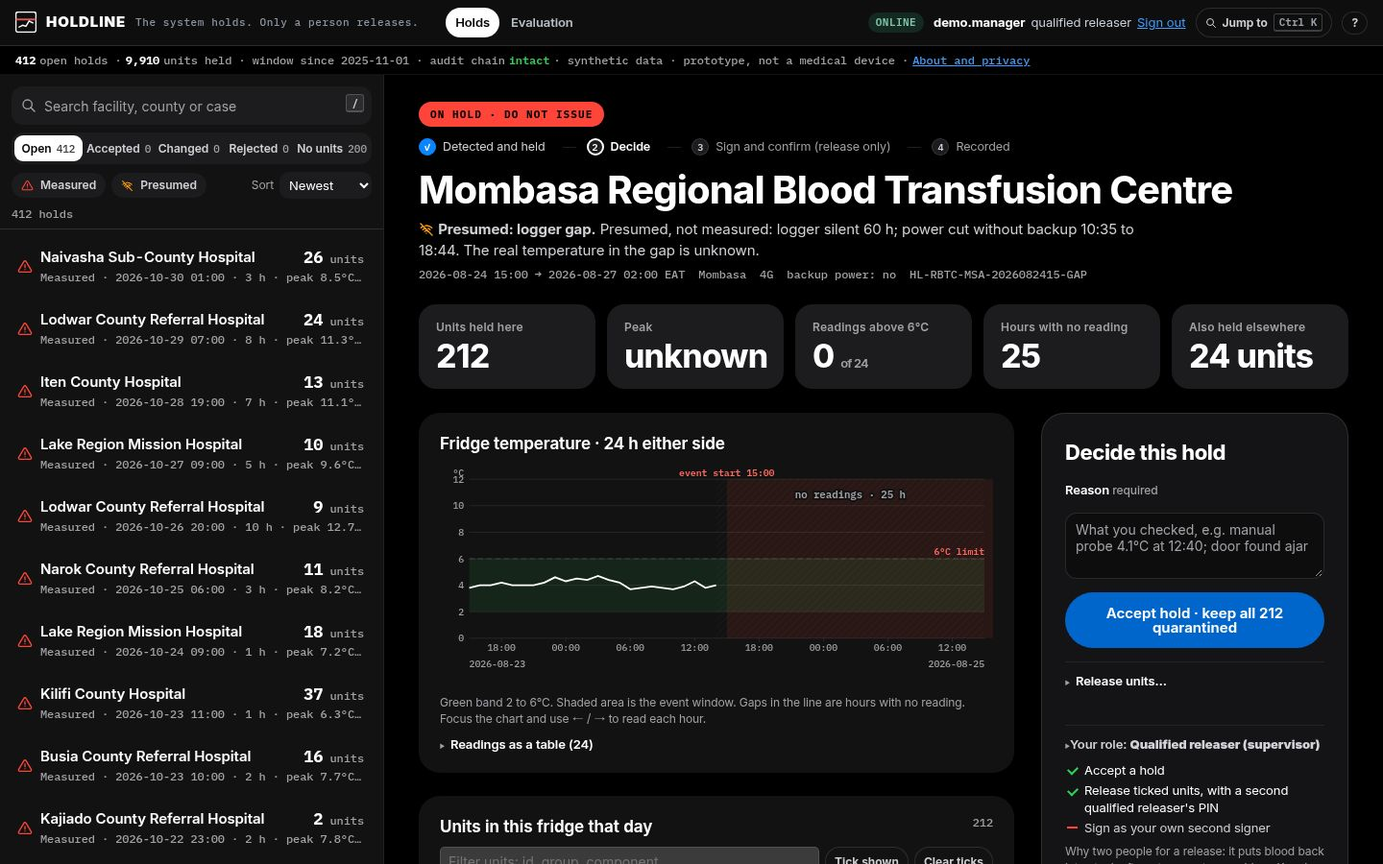
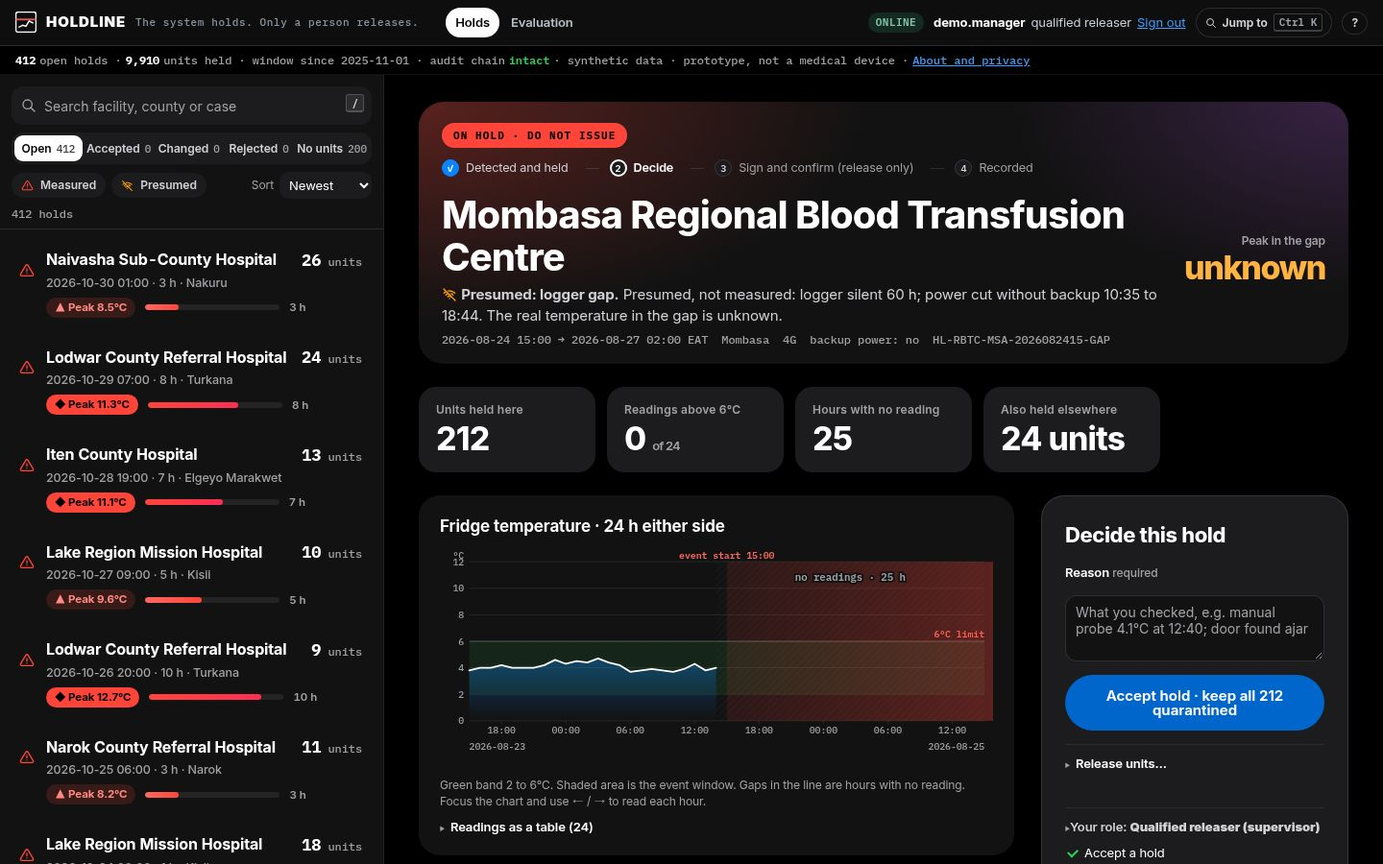
Pass 2: richer queue rows (severity chip, duration bar), case hero with peak numeral and status glow, pill tags and sticky table header, chart gradient fill, excursion glow and solid threshold; blur only on top bar and phone bar. Extras: CSV export of the open queue, printable case report, shift han

diff --git a/holdline/static/app.js b/holdline/static/app.js
@@ -84,7 +84,7 @@ $("#login").onsubmit = async ev => {
   ev.preventDefault();
   const r = await api("/api/login", {method: "POST", headers: {"Content-Type": "application/json"}, body: JSON.stringify({user: $("#luser").value, pin: $("#lpin").value})});
   if (r.cached || !r.ok) { $("#lmsg").textContent = r.cached ? "Offline: sign-in needs the server once." : r.data.error; return; }
-  me = r.data; localStorage.setItem("hl.me", JSON.stringify(me)); $("#lpin").value = ""; $("#signin").close(); paintWho();
+  me = r.data; localStorage.setItem("hl.me", JSON.stringify(me)); $("#lpin").value = ""; $("#signin").close(); paintWho(); handover();
   if (state.data) renderCase(state.data);
 };
 document.addEventListener("click", ev => {
@@ -144,7 +144,8 @@ function paintList() {
      <span class="g ${ex ? "ex" : "un"}">${icon(ex ? "ex" : "gap")}</span>
      <span class="f">${esc(c.facility_name || c.facility_id)}</span>
      <span class="u"><b>${fmt(c.n)}</b> units</span>
-     <span class="m">${ex ? "Measured" : "Presumed"} · ${esc(ts(c.start))} · ${hours(c.start, c.end)} h${ex && c.peak != null ? ` · peak ${esc(c.peak)}°C` : ""}${c.facility_county ? " · " + esc(c.facility_county) : ""}</span></div>`;
+     <span class="m">${esc(ts(c.start))} · ${hours(c.start, c.end)} h${c.facility_county ? " · " + esc(c.facility_county) : ""}</span>
+     ${sevRow(c)}</div>`;
   }).join("");
   if (state.hi >= 0) el.setAttribute("aria-activedescendant", "r" + state.hi); else el.removeAttribute("aria-activedescendant");
 }
@@ -204,6 +205,13 @@ window.addEventListener("hashchange", route);
 narrow.addEventListener("change", route);
 
 // First view: what needs attention, before any case is picked.
+// Queue row severity: a word, a shape and a colour, plus a duration bar (0 to 12 h). Not a sparkline: the queue
+// does not carry readings, and fetching 412 series to draw them would cost more than it tells.
+function sevRow(c) {
+  const ex = c.kind === "EXCURSION", pk = Number(c.peak), h = Math.max(1, hours(c.start, c.end));
+  const k = !ex ? ["gap", "Logger silent"] : pk >= 10 ? ["hot", `Peak ${esc(c.peak)}°C`] : ["ex", `Peak ${esc(c.peak)}°C`];
+  return `<span class="sev"><span class="schip ${k[0]}">${k[0] === "gap" ? "◌" : k[0] === "hot" ? "◆" : "▲"} ${k[1]}</span><span class="dbar ${k[0]}" aria-hidden="true"><i style="width:${Math.min(100, h / 12 * 100).toFixed(0)}%"></i></span><span class="dlab">${h} h</span></span>`;
+}
 function paintOverview() {
   // Phone: the overview is the first view, so start the shared scroll at the top (once per arrival on the queue).
   if (layout() !== "split" && state.view === "queue" && !state.ovTop) { state.ovTop = true; requestAnimationFrame(() => { const m = $("main"); if (m) m.scrollTop = 0; }); }
@@ -212,7 +220,7 @@ function paintOverview() {
   // Seam: an overview module (overview.js) may define window.HoldlineOverview.render(mount, ctx) to own the landing view.
   // ctx = {rows, summary, open(id)}; rows are the open cases as listed in the queue. It must not decide anything.
   if (window.HoldlineOverview && typeof window.HoldlineOverview.render === "function") {
-    el.innerHTML = `<div id="overview-mount" class="overview-mount"></div>`;
+    el.innerHTML = `${state.handover || ""}<div id="overview-mount" class="overview-mount"></div>`;
     try { window.HoldlineOverview.render($("#overview-mount"), {rows, summary: s, open: go}); return; } catch (e) { console.error(e); }
   }
   if (!rows.length) { el.innerHTML = `<div class="empty">Pick a hold from the queue.</div>`; return; }
@@ -291,13 +299,12 @@ function renderCase(d) {
   <div class="sheet" data-case="${esc(c.id)}">
    <header class="chead">${backBtn}${status}
     <div id="steps-mount">${steps(d)}</div>
-    <h1>${esc(f.name || c.facility_id)}</h1>
+    <div class="hero"><h1>${esc(f.name || c.facility_id)}</h1><div class="hpeak ${c.kind === "EXCURSION" ? "ex" : "un"}"><span class="hpl">${c.kind === "EXCURSION" ? "Peak" : "Peak in the gap"}</span><span class="hpv">${c.kind === "EXCURSION" && c.peak != null ? esc(c.peak) + "<small>°C</small>" : "unknown"}</span></div></div>
     <p class="why"><span class="g ${cls}">${glyph}</span> <b>${label}.</b> ${esc(c.reason)}.</p>
     <p class="meta"><span>${esc(ts(c.start))} → ${esc(ts(c.end))} EAT</span><span>${esc(f.county || "")}</span><span>${esc(f.connectivity || "")}</span><span>backup power: ${f.has_blood_fridge_backup_power === "True" ? "yes" : "no"}</span><span class="mono">${esc(c.id)}</span></p>
    </header>
    <dl class="facts" aria-label="Evidence summary">
     <div><dt>${open ? "Units held here" : "Units in this case"}</dt><dd>${fmt(d.units.length)}</dd></div>
-    <div><dt>Peak</dt><dd>${c.kind === "EXCURSION" && c.peak != null ? esc(c.peak) + "°C" : "unknown"}</dd></div>
     <div><dt>Readings above 6°C</dt><dd>${e.above} <small>of ${e.n}</small></dd></div>
     <div><dt>Hours with no reading</dt><dd class="${e.missing ? "unw" : ""}">${e.missing}</dd></div>
     <div><dt>Also held elsewhere</dt><dd class="${alsoUnits.length ? "exw" : ""}">${alsoUnits.length ? `${alsoUnits.length} unit${alsoUnits.length > 1 ? "s" : ""}` : "none"}</dd></div>
@@ -574,6 +581,39 @@ function fuzzy(q, text) {  // subsequence match; contiguous and word-start hits 
   return i === q.length ? sc : 0;
 }
 const cmd = {items: [], hi: 0};
+// Extras. None of these can decide anything or change a release rule.
+// CSV of the open queue as the browser has it (no server call): one row per hold, quoted, UTF-8 with BOM for spreadsheets.
+function exportCSV() {
+  const rows = (state.rows || []).filter(c => c.status === "OPEN" || state.status === "OPEN");
+  const q = v => `"${String(v ?? "").replace(/"/g, '""')}"`;
+  const head = ["case_id", "facility", "county", "kind", "start_eat", "end_eat", "peak_c", "units_on_hold"];
+  const body = rows.map(c => [c.id, c.facility_name || c.facility_id, c.facility_county || "", c.kind === "EXCURSION" ? "measured excursion" : "presumed (logger gap)", ts(c.start), ts(c.end), c.kind === "EXCURSION" ? c.peak : "", c.n].map(q).join(","));
+  const blob = new Blob(["\ufeff" + [head.join(","), ...body].join("\r\n")], {type: "text/csv;charset=utf-8"});
+  const a = document.createElement("a"); a.href = URL.createObjectURL(blob); a.download = `holdline-open-queue-${new Date().toISOString().slice(0, 10)}.csv`;
+  document.body.appendChild(a); a.click(); a.remove(); setTimeout(() => URL.revokeObjectURL(a.href), 1000);
+  toast(`Exported ${fmt(rows.length)} open holds as CSV. Synthetic data.`);
+}
+// Light theme = the base styles with pure white surfaces; dark = theme.css. Choice kept in this browser only.
+function toggleTheme() {
+  const light = !document.documentElement.classList.contains("light");
+  document.documentElement.classList.toggle("light", light); $("#theme-css").disabled = light;
+  localStorage.setItem("hl.theme", light ? "light" : "dark");
+}
+if (localStorage.getItem("hl.theme") === "light") { document.documentElement.classList.add("light"); const t = document.getElementById("theme-css"); if (t) t.disabled = true; }
+// Shift handover: decisions recorded since the start of this shift (07:00 or 19:00 local), from the audit log.
+// Shown once per sign-in on the landing view. Read-only.
+async function handover() {
+  if (!me) return;
+  const r = await api("/api/audit"); if (!r.ok || r.cached || !Array.isArray(r.data)) return;
+  const now = new Date(), start = new Date(now); start.setHours(now.getHours() >= 19 ? 19 : now.getHours() >= 7 ? 7 : -5, 0, 0, 0);
+  const dec = r.data.filter(a => /^DECISION_/.test(a.action) && new Date(a.ts) >= start);
+  const kinds = {DECISION_ACCEPT: "kept on hold", DECISION_CHANGE: "partly released", DECISION_REJECT: "released"};
+  const hh = String(start.getHours()).padStart(2, "0") + ":00";
+  const open = state.rows ? state.rows.length : null;
+  const lines = dec.slice(0, 4).map(a => `<li><b>${esc(a.actor)}</b> ${kinds[a.action] || esc(a.action)} · <a href="#/case/${encodeURIComponent(a.case_id)}">${esc(a.case_id)}</a> · ${new Date(a.ts).toTimeString().slice(0, 5)}</li>`).join("");
+  state.handover = `<section class="handover" aria-label="Shift handover"><h2>Since ${hh}: ${dec.length ? `${fmt(dec.length)} decision${dec.length === 1 ? "" : "s"} recorded` : "no decisions recorded yet"}${open != null && state.status === "OPEN" ? ` · ${fmt(open)} holds still open` : ""}</h2>${lines ? `<ul>${lines}</ul>` : ""}<p class="hint">From the audit log. New holds are not counted here because the synthetic holds carry dataset dates, not today's.</p></section>`;
+  if (state.view === "queue") paintOverview();
+}
 function cmdActions() {
   const a = [
     {k: "Go to holds", run: () => { location.hash = "#/"; }},
@@ -583,6 +623,9 @@ function cmdActions() {
     {k: "Show every hold in this tab", run: () => { state.q = ""; $("#q").value = ""; setKinds([]); }},
     me ? {k: "Sign out", run: () => $("#out") && $("#out").click()} : {k: "Sign in", run: openSignin},
     {k: "Keyboard shortcuts", run: () => $("#help").showModal()},
+    {k: "Export the open queue as CSV", run: exportCSV},
+    ...(state.view === "case" && state.data ? [{k: "Print this case for the audit file", run: () => window.print()}] : []),
+    {k: document.documentElement.classList.contains("light") ? "Switch to dark theme" : "Switch to light theme", run: toggleTheme},
   ];
   return a.map(x => ({...x, group: "Actions"}));
 }
@@ -624,7 +667,7 @@ function wireCmd() {
     const r = await api("/api/case/" + encodeURIComponent(decodeURIComponent(m[1])), {headers: auth()});
     if (r.data && r.data.case) { state.status = r.data.case.status; paintTabs(); }
   }
-  await loadList(); route();
+  await loadList(); route(); handover();
 })();
 setInterval(() => { if (Q().some(d => !d._error)) flush(); }, 10000);
 window.HOLDLINE = {open: id => go(id), current: () => state.data && state.data.case.id, state};  // used by the benchmark harness

diff --git a/holdline/static/theme.css b/holdline/static/theme.css
@@ -111,7 +111,7 @@ td input[type=checkbox]{accent-color:#0A84FF}
 .st.ON_HOLD{background:#fff;color:#000}
 
 /* decision panel: glass with a vivid header glow */
-.decide{background:var(--glass);-webkit-backdrop-filter:saturate(180%) blur(24px);backdrop-filter:saturate(180%) blur(24px);border:1px solid var(--rule);border-radius:24px;padding:24px;gap:14px;overflow:hidden;position:sticky}
+.decide{background:#1C1C1E;border:1px solid var(--rule);border-radius:24px;padding:24px;gap:14px;overflow:hidden;position:sticky}
 .decide::before{content:"";position:absolute;inset:-40% -20% auto -20%;height:180px;background:radial-gradient(50% 60% at 30% 50%,rgba(10,132,255,.30),transparent 70%),radial-gradient(40% 60% at 75% 40%,rgba(191,90,242,.26),transparent 70%);pointer-events:none;z-index:0}
 .decide>*{position:relative;z-index:1}
 .decide h2{font-size:22px;font-weight:750;letter-spacing:-.018em}
@@ -126,11 +126,11 @@ td input[type=checkbox]{accent-color:#0A84FF}
 .slide input::-webkit-slider-thumb{background-color:#D70015}
 .slide.done{background:#D70015}
 .sms{background:var(--surface-3)}
-.toast{background:rgba(44,44,46,.92);-webkit-backdrop-filter:blur(20px);backdrop-filter:blur(20px);border:1px solid var(--rule);border-radius:16px}
+.toast{background:#2C2C2E;border:1px solid var(--rule);border-radius:16px}
 .upd-banner{background:var(--surface-3)}
 .upd-banner button{background:#fff;color:#000}
 dialog{background:var(--surface-2);color:#fff;border:1px solid var(--rule);border-radius:22px}
-dialog::backdrop{background:rgba(0,0,0,.6);-webkit-backdrop-filter:blur(6px);backdrop-filter:blur(6px)}
+dialog::backdrop{background:rgba(0,0,0,.7)}
 .evaltable{background:var(--surface);border-color:var(--rule)}
 
 /* landing: Revolut-style vivid cards and chunky numbers */
@@ -158,11 +158,12 @@ dialog::backdrop{background:rgba(0,0,0,.6);-webkit-backdrop-filter:blur(6px);bac
 
 /* spring motion; all off under reduced motion */
 @media (prefers-reduced-motion:no-preference){
-  .ocard,.facts div,.mfridge{animation:rise .7s var(--spring) both}
-  .ocard:nth-child(2),.facts div:nth-child(2){animation-delay:.04s}
-  .ocard:nth-child(3),.facts div:nth-child(3){animation-delay:.08s}
-  .ocard:nth-child(4),.facts div:nth-child(4){animation-delay:.12s}
-  .facts div:nth-child(5){animation-delay:.16s}
+  .ocard{animation:rise .7s var(--spring) both}
+  .ocard:nth-child(2){animation-delay:.04s}
+  .ocard:nth-child(3){animation-delay:.08s}
+  .ocard:nth-child(4){animation-delay:.12s}
+  .list .row,.facts div{transition:transform .45s var(--spring),background .15s}
+  .list .row:hover{transform:translateX(2px)}
   .ocard{transition:transform .5s var(--spring)}
   .ocard:hover{transform:translateY(-4px) scale(1.01)}
 }
@@ -179,3 +180,49 @@ dialog::backdrop{background:rgba(0,0,0,.6);-webkit-backdrop-filter:blur(6px);bac
   html body .sheet{padding:16px 16px 96px}
 }
 .xwarn,.warnchip{background:var(--unverified-bg)!important;color:#FFD08A!important;border-color:var(--unverified)!important}.also{color:#FFB340;background:rgba(255,159,10,.14)}
+
+/* ---- pass 2: richer rows, hero, table, chart ---- */
+.list .row{grid-template-columns:18px minmax(0,1fr) auto;padding:14px 14px 14px 12px;gap:4px 10px}
+.list .row .f{font-size:16px;font-weight:700;letter-spacing:-.01em}
+.list .row .m{font-family:var(--sans);font-size:12.5px;color:var(--ink-3)}
+.sev{grid-column:2/4;display:flex;align-items:center;gap:10px;margin-top:4px}
+.schip{font:700 11.5px var(--sans);padding:3px 9px;border-radius:999px;white-space:nowrap}
+.schip.ex{color:#FF8A80;background:rgba(255,69,58,.16)}
+.schip.hot{color:#000;background:#FF453A}
+.schip.gap{color:#FFB340;background:rgba(255,159,10,.15)}
+.dbar{flex:1;height:6px;border-radius:3px;background:rgba(255,255,255,.08);overflow:hidden;max-width:140px}
+.dbar i{display:block;height:100%;border-radius:3px}
+.dbar.ex i{background:linear-gradient(90deg,#FF6961,#FF453A)}
+.dbar.hot i{background:linear-gradient(90deg,#FF453A,#FF2D55)}
+.dbar.gap i{background:repeating-linear-gradient(45deg,#FF9F0A 0 3px,rgba(255,159,10,.35) 3px 6px)}
+.dlab{font:600 11.5px var(--sans);color:var(--ink-3);font-variant-numeric:tabular-nums}
+.list .row.sel{background:linear-gradient(100deg,rgba(10,132,255,.38),rgba(94,92,230,.22) 60%,rgba(191,90,242,.12));box-shadow:inset 0 0 0 1px rgba(64,156,255,.55)}
+.list .row.sel .f{color:#fff}
+
+/* case hero: gradient status band and the peak as a big numeral */
+.chead{position:relative;padding:22px 24px 18px;border-radius:26px;overflow:hidden;background:#121212}
+.chead::before{content:"";position:absolute;inset:0;z-index:0;pointer-events:none;background:radial-gradient(80% 140% at 0% 0%,rgba(255,69,58,.30),transparent 60%),radial-gradient(60% 120% at 100% 0%,rgba(191,90,242,.22),transparent 60%)}
+.sheet:has(.kick.done) .chead::before{background:radial-gradient(80% 140% at 0% 0%,rgba(10,132,255,.30),transparent 60%),radial-gradient(60% 120% at 100% 0%,rgba(94,92,230,.22),transparent 60%)}
+.chead>*{position:relative;z-index:1}
+.hero{display:flex;align-items:flex-end;justify-content:space-between;gap:24px;flex-wrap:wrap}
+.hero h1{margin:14px 0 6px;flex:1 1 320px}
+.hpeak{display:grid;justify-items:end;line-height:1}
+.hpl{font:600 12px var(--sans);color:var(--ink-3);margin-bottom:4px}
+.hpv{font:800 64px/1 var(--sans);letter-spacing:-.04em;font-variant-numeric:tabular-nums}
+.hpv small{font-size:28px;font-weight:700;margin-left:2px}
+.hpeak.ex .hpv{color:#FF6961}
+.hpeak.un .hpv{color:#FFB340;font-size:34px}
+
+/* unit table: roomy rows, pill tags, sticky header */
+.unitsp .twrap{max-height:560px}
+.unitsp thead th{position:sticky;top:0;z-index:2;background:#1C1C1E}
+.unitsp td{padding:14px 14px}
+.st{border-radius:999px!important;padding:4px 10px!important;font:700 11px var(--sans)!important;letter-spacing:.02em}
+.st.ON_HOLD{background:#fff;color:#000}
+.st.RELEASED{background:rgba(48,209,88,.18);color:#30D158}
+.st.QUARANTINED{background:rgba(255,69,58,.16);color:#FF8A80}
+
+/* chart */
+:root{--chart-line:#FFFFFF;--chart-fill:#0A84FF}
+.chart .limline{stroke-dasharray:none;stroke-width:1.5}
+@media (max-width:760px){html body .hpv{font-size:44px}html body .hpv small{font-size:20px}html body .chead{padding:16px 16px 14px;border-radius:20px}}

diff --git a/holdline/static/chart.js b/holdline/static/chart.js
@@ -15,11 +15,16 @@ function chart(rs, start, end, kind) {
   const st = new Date(start).getTime(), t0 = Math.min(st - 24 * 36e5, ...tt), t1 = Math.max(st + 24 * 36e5, ...tt), vs = rs.map(r => r[1]).filter(v => v > -50 && v < 60);
   const lo = Math.min(0, ...vs), hi = Math.max(12, ...vs);
   const x = t => L + (t - t0) / Math.max(1, t1 - t0) * (W - L - R), y = v => H - B - (v - lo) / (hi - lo) * (H - T - B);
-  let d = "", prev = null, dots = "";
+  let d = "", prev = null, dots = "", area = "", segX0 = null, lastX = null;  // area: gradient fill under each unbroken run
+  const base = (H - B).toFixed(1), closeSeg = () => { if (segX0 != null) area += `L${lastX} ${base}L${segX0} ${base}Z`; };
   rs.forEach((r, i) => { const t = tt[i]; if (r[1] < -50 || r[1] > 60) return;
-    d += (prev && t - prev > 36e5 * 1.5 ? "M" : (d ? "L" : "M")) + x(t).toFixed(1) + " " + y(r[1]).toFixed(1);
+    const brk = !d || (prev && t - prev > 36e5 * 1.5), X = x(t).toFixed(1), Y = y(r[1]).toFixed(1);
+    if (brk) { closeSeg(); segX0 = X; area += `M${X} ${base}L${X} ${Y}`; } else area += `L${X} ${Y}`;
+    lastX = X;
+    d += (brk ? "M" : "L") + X + " " + Y;
     if (r[1] > 6) dots += `<path d="M${x(t).toFixed(1)} ${(y(r[1]) - 4).toFixed(1)}l4 7h-8z" fill="var(--excursion)"/>`;
     prev = t; });
+  closeSeg();
   let gaps = "";  // hatched columns where an hourly reading is missing
   const edges = [t0 - 36e5, ...tt, t1 + 36e5];  // include silence before the first and after the last reading
   for (let i = 1; i < edges.length; i++) if (edges[i] - edges[i - 1] > 36e5 * 1.5) {
@@ -35,12 +40,12 @@ function chart(rs, start, end, kind) {
   const pk = vs.length ? Math.max(...vs) : null;
   const sum = `${rs.length} of 49 hourly readings present from ${ts(rs[0][0])} to ${ts(rs[rs.length - 1][0])}. ${vs.filter(v => v > 6).length} above 6°C${pk != null ? `, highest ${pk}°C` : ""}. Event window ${ts(start)} to ${ts(end)}.`;
   return `<figure class="chart"><svg viewBox="0 0 ${W} ${H}" tabindex="0" role="img" aria-label="${esc(sum)}" id="chartsvg">
-   <defs><pattern id="hatch" width="6" height="6" patternUnits="userSpaceOnUse" patternTransform="rotate(45)"><line x1="0" y1="0" x2="0" y2="6" stroke="var(--unverified)" stroke-width="1.2" opacity=".45"/></pattern></defs>
+   <defs><linearGradient id="fillg" x1="0" y1="0" x2="0" y2="1"><stop offset="0" style="stop-color:var(--chart-fill, #0A84FF);stop-opacity:.35"/><stop offset="1" style="stop-color:var(--chart-fill, #0A84FF);stop-opacity:0"/></linearGradient><linearGradient id="exg" x1="0" y1="0" x2="1" y2="0"><stop offset="0" style="stop-color:var(--excursion);stop-opacity:0"/><stop offset=".5" style="stop-color:var(--excursion);stop-opacity:.28"/><stop offset="1" style="stop-color:var(--excursion);stop-opacity:0"/></linearGradient><pattern id="hatch" width="6" height="6" patternUnits="userSpaceOnUse" patternTransform="rotate(45)"><line x1="0" y1="0" x2="0" y2="6" stroke="var(--unverified)" stroke-width="1.2" opacity=".45"/></pattern></defs>
    ${grid}<rect x="${L}" y="${y(6)}" width="${W - L - R}" height="${y(2) - y(6)}" fill="var(--band-safe)"/>
-   <line x1="${L}" x2="${W - R}" y1="${y(6)}" y2="${y(6)}" stroke="var(--excursion)" stroke-width="1.5" stroke-dasharray="6 4"/>
+   <line x1="${L}" x2="${W - R}" y1="${y(6)}" y2="${y(6)}" stroke="var(--excursion)" stroke-width="1.5" stroke-dasharray="6 4" class="limline" shape-rendering="crispEdges"/>
    <text x="${W - R}" y="${y(6) - 5}" text-anchor="end" class="ax lim">6°C limit</text>
-   <rect x="${Math.min(sx, ex)}" y="${T}" width="${Math.max(2, Math.abs(ex - sx))}" height="${H - T - B}" fill="var(--excursion-bg)" opacity=".6"/>
-   ${gaps}<path d="${d}" fill="none" stroke="var(--ink)" stroke-width="2"/>${dots}
+   <rect x="${Math.min(sx, ex) - 14}" y="${T}" width="${Math.max(2, Math.abs(ex - sx)) + 28}" height="${H - T - B}" fill="url(#exg)" class="exglow"/><rect x="${Math.min(sx, ex)}" y="${T}" width="${Math.max(2, Math.abs(ex - sx))}" height="${H - T - B}" fill="var(--excursion-bg)" opacity=".6"/>
+   ${gaps}<path d="${area}" fill="url(#fillg)" class="area"/><path d="${d}" fill="none" stroke="var(--chart-line, var(--ink))" stroke-width="2" stroke-linejoin="round" stroke-linecap="round"/>${dots}
    <g id="cur" visibility="hidden"><line id="curl" y1="${T}" y2="${H - B}" stroke="var(--verified)" stroke-width="1.5"/><circle id="curc" r="4.5" fill="var(--verified)"/><text id="curt" class="ax curt" y="${T + 10}"></text></g>
    <text x="${L}" y="${H - 4}" class="ax">${esc(hm(t0).slice(0, 10))}</text><text x="${x(st)}" y="${T - 4}" text-anchor="middle" class="ax ev">event start ${esc(hm(st).slice(11))}</text><text x="${W - R}" y="${H - 4}" text-anchor="end" class="ax">${esc(hm(t1).slice(0, 10))}</text><text x="${L - 6}" y="${T - 4}" text-anchor="end" class="ax">°C</text></svg>
    <figcaption class="sr" id="chartsum">${esc(sum)}</figcaption><p class="curread" id="curread" aria-live="polite"></p></figure>`;

diff --git a/holdline/static/print.css b/holdline/static/print.css
@@ -1,0 +1,32 @@
+/* One-page case report for the audit file. Print from an open case (Ctrl/Cmd+P or the command menu).
+   Pure white paper, black text; colour is never the only signal (every state keeps its word). */
+@page{size:A4;margin:14mm}
+*{background:#FFFFFF!important;color:#000!important;box-shadow:none!important;text-shadow:none!important;animation:none!important;transition:none!important;-webkit-backdrop-filter:none!important;backdrop-filter:none!important}
+.bar,.queue,.decidebar,.toasts,#toasts,.backbtn,.skip,dialog,.roles,.slide,.steps,details.more,.chead::before,.decide::before,.upd-banner,.cmdbtn,.sev .dbar{display:none!important}
+html,body,main,.case{display:block!important;height:auto!important;overflow:visible!important;width:auto!important;position:static!important}
+.context{border-bottom:1px solid #000;font-size:9pt;white-space:normal}
+.context::after{content:" · printed report, synthetic data";}
+.sheet{display:block!important;padding:0!important;max-width:none}
+.chead{padding:0!important;border-radius:0}
+.hero h1,.chead h1{font-size:18pt!important;margin:6pt 0}
+.hpv{font-size:22pt!important}
+.kick{border:1.5px solid #000;border-radius:3px}
+.facts{display:grid!important;grid-template-columns:repeat(4,1fr);gap:0!important;border:1px solid #000;margin:8pt 0}
+.facts div{border-radius:0!important;border-left:1px solid #000;padding:4pt 6pt!important}
+.facts dd{font-size:13pt!important}
+.panel,.decide{border:1px solid #000!important;border-radius:0!important;padding:6pt!important;margin:6pt 0;position:static!important;break-inside:avoid}
+.decide form,.decide textarea,.decide button,.decide select,.decide input{display:none!important}
+.chart svg{max-height:60mm}
+.chart path[fill="url(#fillg)"],.chart .exglow{display:none}
+.chart path{stroke:#000!important}
+.twrap{max-height:none!important;overflow:visible!important;border:0!important}
+table{font-size:8pt}
+thead th{position:static!important;border-bottom:1px solid #000}
+td{padding:2pt 4pt!important;border-bottom:1px solid #999}
+.st{border:1px solid #000}
+a{text-decoration:none}
+:root,html{background:#FFFFFF!important;color-scheme:light}
+svg text{fill:#000!important}
+.chart figcaption,.chart .curread,.chart+p,.chartp>p,.chartp details,.ostats{display:none!important}
+.hpeak .hpv{color:#000!important}
+.sheet>*{margin-bottom:6pt}

diff --git a/holdline/static/sw.js b/holdline/static/sw.js
@@ -1,5 +1,5 @@
 // Cache the app shell so the page opens with no connection. Data comes from localStorage in app.js.
-const C = "holdline-v36", SHELL = ["/", "/index.html", "/app.js", "/app.css", "/theme.css", "/phone.css", "/chart.js", "/overview.js", "/tokens.css", "/fonts.css", "/fonts/Inter-latin-wght.woff2", "/404.html"];
+const C = "holdline-v40", SHELL = ["/", "/index.html", "/app.js", "/app.css", "/theme.css", "/print.css", "/phone.css", "/chart.js", "/overview.js", "/tokens.css", "/fonts.css", "/fonts/Inter-latin-wght.woff2", "/404.html"];
 // skipWaiting after the new shell is fully cached: an old controlled browser must not keep serving the previous app.js from its old cache.
 self.addEventListener("install", e => e.waitUntil(caches.open(C).then(c => c.addAll(SHELL.map(u => new Request(u, {cache: "reload"})))).then(() => self.skipWaiting())));
 // Drop stale caches, then claim open clients so the next navigation is served by this worker. No page reload is forced: the running tab keeps its in-memory app until the user reloads, and queued decisions live in localStorage, untouched by the worker swap.

diff --git a/holdline/static/index.html b/holdline/static/index.html
@@ -1,5 +1,5 @@
 <!doctype html><html lang="en"><head><meta charset="utf-8"><meta name="viewport" content="width=device-width,initial-scale=1,viewport-fit=cover">
-<title>HOLDLINE · cold chain hold queue</title><link rel="stylesheet" href="fonts.css"><link rel="stylesheet" href="tokens.css"><link rel="stylesheet" href="app.css"><link rel="stylesheet" href="theme.css">
+<title>HOLDLINE · cold chain hold queue</title><link rel="stylesheet" href="fonts.css"><link rel="stylesheet" href="tokens.css"><link rel="stylesheet" href="app.css"><link rel="stylesheet" href="theme.css" id="theme-css"><link rel="stylesheet" href="print.css" media="print">
 <link rel="stylesheet" href="phone.css"></head>
 <body class="layout-split">
 <!-- Icons: Tabler Icons, MIT, see LICENSE-tabler.txt -->

diff --git a/holdline/static/app.css b/holdline/static/app.css
@@ -331,3 +331,11 @@ td.c-unit{white-space:normal;min-width:200px}
 .mtable{margin:8px 0 22px}
 .subeye{margin-top:8px}
 @media (prefers-reduced-motion:reduce){.mstrip,.mholds a{transition:none}}
+.handover{margin:0 0 18px;padding:14px 18px;border-radius:16px;background:var(--verified-bg);border:1px solid var(--rule)}
+.handover h2{font-size:16px;margin:0 0 6px}
+.handover ul{list-style:none;margin:0 0 6px;padding:0;display:grid;gap:3px;font-size:13.5px}
+.handover .hint{font-size:12px;color:var(--ink-3);margin:0}
+.case>.handover{margin:28px 36px 0}
+html.light{--paper:#FFFFFF;--surface:#FFFFFF}
+html.light body{background:#FFFFFF}
+html.light thead th{background:#FFFFFF}html.light tbody tr:hover{background:#F5F5F7}
